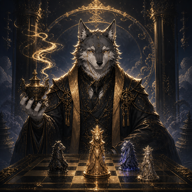
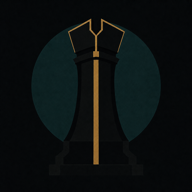
feat: 发布自鸣棋最终增强版

diff --git a/sw.js b/sw.js
@@ -1,5 +1,5 @@
 /* 自鸣棋 PWA：壳层离线、运行资源按需缓存；排行榜/API 与所有写请求永不入缓存。 */
-const RELEASE='20260809a';
+const RELEASE='20260809b';
 const SHELL_CACHE='zmq-shell-'+RELEASE;
 const ASSET_CACHE='zmq-assets-'+RELEASE;
 const SHELL=[

diff --git a/assets/platform-20260809/README.md b/assets/platform-20260809/README.md
@@ -1,0 +1,27 @@
+# 自鸣棋跨平台发布资源 · 2026-08-09
+
+统一视觉原则：一枚黑曜石棋子、一道克制金线、一轮深青日蚀。所有文件均为不带预圆角的实色 PNG；平台在最终显示时自行套用圆角或遮罩。
+
+## 母版与网页
+
+- `app-icon-master-1024.png`：1024×1024、无透明通道的唯一母版。
+- PWA 派生：`../pwa-20260809/` 中 512、192、180、64 四档。
+- `marketing/og-cover-1200x630.png`：正式域名 Open Graph / 社交预览封面。
+
+## iOS
+
+- `ios/AppIcon.appiconset/` 可直接拖入 Xcode Assets；`Contents.json` 使用现代 iOS 的单一 1024×1024 universal 图标入口。
+- `ios/AppIcon-1024.png` 是独立备份，便于 App Store Connect、宣传或后续 Icon Composer 使用。
+- 图标不带 Alpha、不预切圆角；不要在 Xcode 前再次压缩或套圆角。
+
+## 微信小游戏
+
+- `wechat/game-icon-512.png`：小游戏项目与资料页图标母件。
+- `wechat/share-card-5x4.png`：1200×960（5:4）分享图，适合作为 `onShareAppMessage` 的 `imageUrl` 源文件。
+- 将来原生迁移时保留网页中的 `echo` 战书协议：分享参数只含版本、化名、难度、最深关与单位 ID/星级，不含账号、手机号或课堂名单。
+
+## 品牌约束
+
+- 不加入狼先生头像、人物群像、第二枚棋子、棋盘、粒子或霓虹特效。
+- 不把“18+”印到图标上；成熟感由材质、留白和文案语气表达。
+- 新平台只从 1024 母版重新派生，避免多源图标逐步漂移。

diff --git a/NETWORK-DEPLOYMENT.md b/NETWORK-DEPLOYMENT.md
@@ -10,6 +10,8 @@
   只在实际使用时缓存，首访不下载全体立绘和三首背景音乐。
 - 导航网络优先、离线回落；静态资源缓存优先；跨域榜单、`/api/` 和所有非 GET 请求不缓存。
 - 榜单 POST 不声明 `application/json`，保持 CORS simple request，避免额外 OPTIONS 往返。
+- 结算页的“回响战书”把军团快照放在 `zimingqi.myskme.com/?echo=...` 链接中；接收方首屏即可验明是真实军团并离线开局，不新增账号或后端依赖。
+- 世界回廊严格不造虚拟玩家：空榜显示个人门槛；真人池空时只出现明确标注的“系统守关局”，且不会上传真实榜单。
 - `edgeone.json` 为入口文件与 Service Worker 设置 `no-cache`，美术资源缓存一天；现有资源
   仍会原名更新，因此不使用 `immutable`。
 - `.github/workflows/deploy-edgeone.yml` 只允许手动触发，且默认只构建 ZIP，不会因合并自动上线。
@@ -21,6 +23,7 @@
 3. GitHub 仓库 Secret 配置 `EDGEONE_API_TOKEN`。
 4. 先运行默认的手动工作流下载 ZIP；控制台预览验收通过后，再以 `deploy=true` 手动发布。
 5. 验收首页、单人点将、榜单读写、飞行模式重开、390×844 无横向溢出；确认请求前无 OPTIONS。
+6. 用两台设备验证回响战书：A 结算分享，B 打开链接后首页出现“真实回响”，第 4 关遇到 A 的军团。
 
 本机验证与打包：
 
